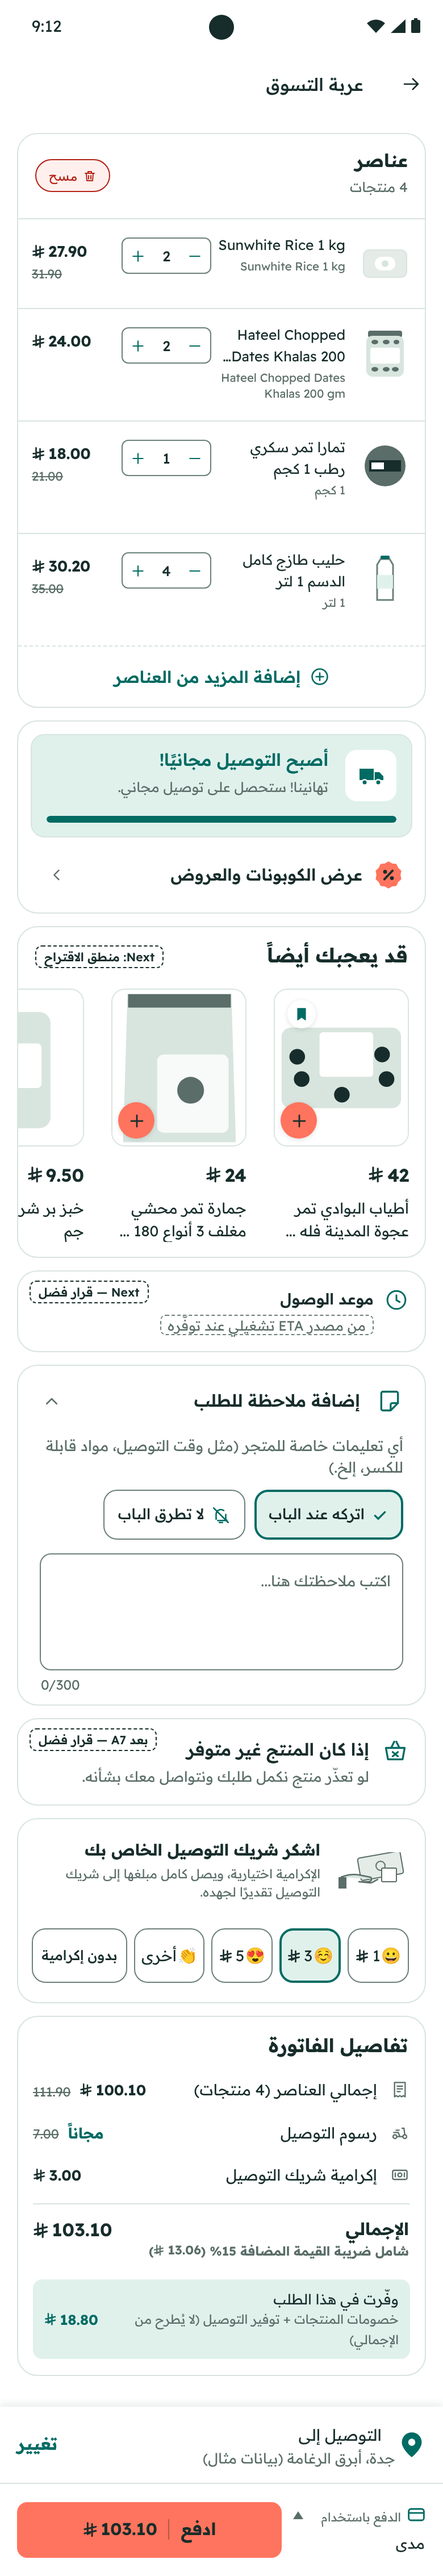
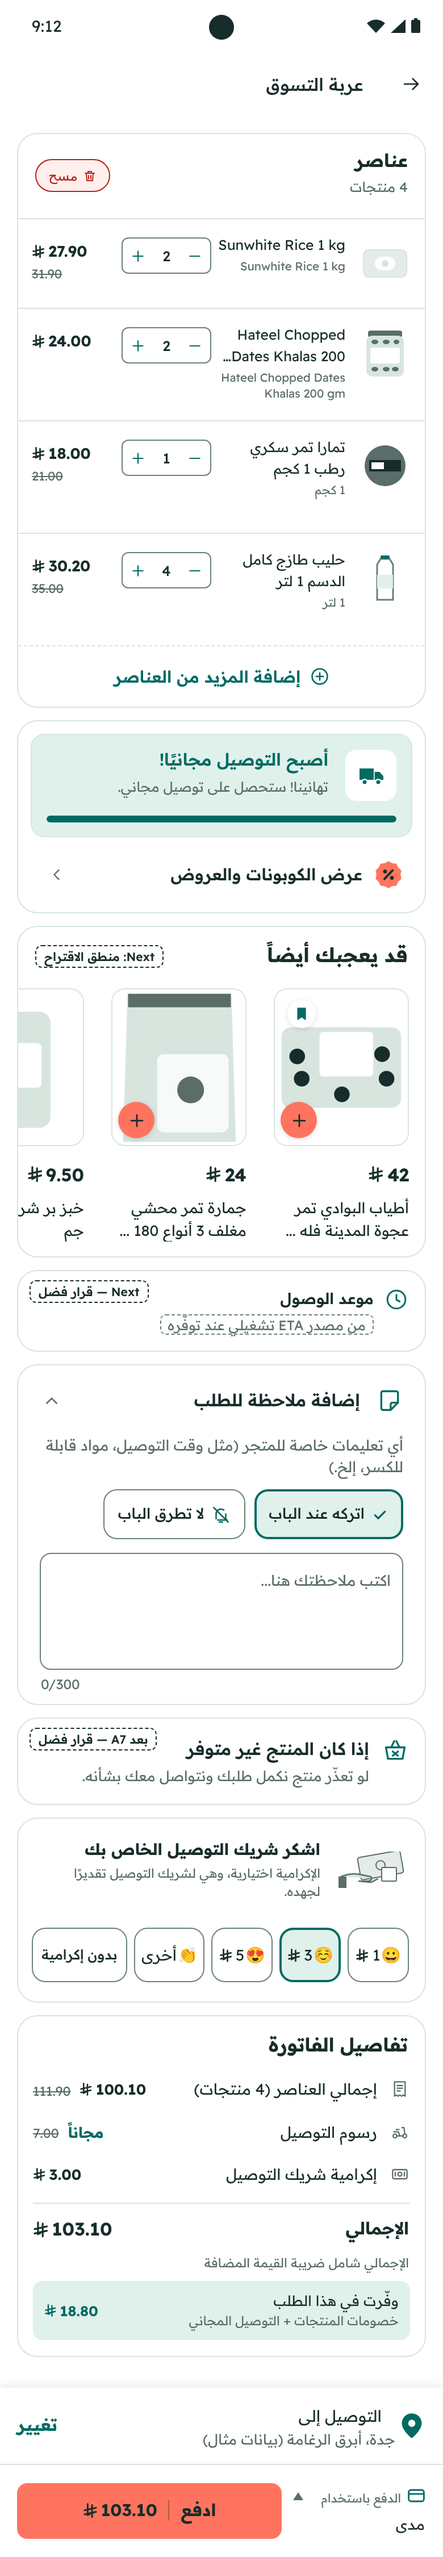
Checkout journey: final round (VAT shown as inclusive note only, edge-state fixes)
Claude-Session: https://claude.ai/code/session_01Qb8xUvC7Auf1qNT2o2kfnj

diff --git a/design/outputs/checkout-journey/07-edge-states.html b/design/outputs/checkout-journey/07-edge-states.html
@@ -28,7 +28,7 @@
 
 <!-- 1 recalculation -->
 <section class="edge-sec" id="e1"><h4><span>1</span>إعادة حساب المبلغ (بعد تغيير كمية أو إكرامية)</h4>
-  <section class="card inv"><div class="irow total"><span class="l">الإجمالي<small>شامل ضريبة القيمة المضافة 15%</small></span><span class="a"><span class="skel"></span></span></div></section>
+  <section class="card inv"><div class="irow total"><span class="l">الإجمالي</span><span class="a"><span class="skel"></span></span></div><p class="vat-note">الإجمالي شامل ضريبة القيمة المضافة</p></section>
   <div class="frag-footer"><div class="actionbar review">
     <button class="btn-primary" type="button" disabled><span class="spin"></span>ادفع</button>
     <div class="pay"><svg class="cash" viewBox="0 0 15 17" style="color:var(--jarna-link)"><rect x="0.8" y="3" width="13.4" height="10" rx="2" fill="none" stroke="currentColor" stroke-width="1.4"/><path d="M0.8 6.5h13.4" stroke="currentColor" stroke-width="1.4"/></svg><span class="lbl">الدفع باستخدام</span><svg class="caret" viewBox="0 0 9 7"><path d="M0 7L4.5 0 9 7z"/></svg><span class="val" style="direction:rtl">مدى</span></div>
@@ -37,7 +37,7 @@
 
 <!-- 2 confirming payment -->
 <section class="edge-sec" id="e2"><h4><span>2</span>جارٍ تأكيد الدفع (بين نجاح تاب ووصول التأكيد للخادم)</h4>
-  <div class="center-state"><div class="ring"></div><h3>جارٍ تأكيد الدفع</h3><p>لا تغلق التطبيق حتى يكتمل التأكيد.</p></div>
+  <div class="center-state"><div class="ring"></div><h3>جارٍ تأكيد الدفع</h3><p>نؤكد الدفع مع البنك.</p></div>
 </section>
 
 <!-- 3 paid, order not created -->
@@ -54,7 +54,7 @@
     <button class="btn-primary" type="button">إتمام الطلب<span class="sep"></span><span class="amt"><svg class="sar"><use href="#sar"/></svg>103.10</span></button>
     <div class="pay"><svg class="cash" viewBox="0 0 15 17" style="color:var(--jarna-link)"><rect x="0.8" y="4" width="13.4" height="9" rx="1.5" fill="none" stroke="currentColor" stroke-width="1.4"/><circle cx="7.5" cy="8.5" r="2" fill="none" stroke="currentColor" stroke-width="1.3"/></svg><span class="lbl">الدفع باستخدام</span><svg class="caret" viewBox="0 0 9 7"><path d="M0 7L4.5 0 9 7z"/></svg><span class="val" style="direction:rtl">الدفع عند الاستلام</span></div>
   </div></div>
-  <div class="succ" style="height:64px"><div class="meta" style="top:10px"><div><span>المبلغ عند الاستلام</span><span class="num"><svg class="sar"><use href="#sar"/></svg>103.10</span></div></div></div>
+  <div class="succ" style="height:72px"><div class="meta tagged" style="top:18px"><span class="mock-tag" style="top:-11px">Next — قرار فضل</span><div><span>المبلغ عند الاستلام</span><span class="num"><svg class="sar"><use href="#sar"/></svg>103.10</span></div></div></div>
 </section>
 
 <!-- 5 saved card -->
@@ -63,16 +63,19 @@
 </section>
 
 <!-- 6 below free-delivery threshold -->
-<section class="edge-sec" id="e6"><h4><span>6</span>الهبوط تحت حد التوصيل المجاني في المراجعة (حذف منتج)</h4>
+<section class="edge-sec" id="e6"><h4><span>6</span>الهبوط تحت حد التوصيل المجاني (سلة 04 بعد حذف الحليب وتمارا وخفض الرز إلى 1)</h4>
   <section class="card fd-card" style="height:102px;padding-bottom:0">
     <div class="fd"><div class="truck"><svg><use href="#i-truck"/></svg></div>
-      <h3>احصل على توصيل مجاني</h3><p>أضف منتجات بقيمة <span class="num"><svg class="sar"><use href="#sar"/></svg>4.10</span> إضافية</p>
-      <div class="bar"><i style="width:91.8%"></i></div></div>
+      <h3>احصل على توصيل مجاني</h3><p>أضف منتجات بقيمة <span class="num"><svg class="sar"><use href="#sar"/></svg>12.05</span> إضافية</p>
+      <div class="bar"><i style="width:75.9%"></i></div></div>
   </section>
   <section class="card inv">
-    <div class="irow"><svg class="ic ric"><use href="#i-receipt"/></svg><span class="l">إجمالي العناصر (3 منتجات)</span><span class="a"><span class="num"><svg class="sar"><use href="#sar"/></svg>45.90</span></span></div>
-    <div class="irow"><svg class="ic ric"><use href="#i-scooter"/></svg><span class="l">رسوم التوصيل</span><span class="a"><span class="num"><svg class="sar"><use href="#sar"/></svg>7.00</span></span></div>
-    <div class="irow total"><span class="l">الإجمالي<small>شامل ضريبة القيمة المضافة 15% (<span class="num"><svg class="sar"><use href="#sar"/></svg>6.90</span>)</small></span><span class="a"><span class="num"><svg class="sar"><use href="#sar"/></svg>52.90</span></span></div>
+    <div class="irow"><svg class="ic ric"><use href="#i-receipt"/></svg><span class="l">إجمالي العناصر (2 منتجات)</span><span class="a"><span class="was">39.95</span><span class="num"><svg class="sar"><use href="#sar"/></svg>37.95</span></span></div>
+    <div class="irow"><svg class="ic ric"><use href="#i-scooter"/></svg><span class="l">رسوم التوصيل<small class="pos">أضف منتجات بقيمة <span class="num"><svg class="sar"><use href="#sar"/></svg>12.05</span> للحصول على توصيل مجاني</small></span><span class="a"><span class="num"><svg class="sar"><use href="#sar"/></svg>7.00</span></span></div>
+    <div class="irow"><svg class="ic ric"><use href="#i-cash"/></svg><span class="l">إكرامية شريك التوصيل</span><span class="a"><span class="num"><svg class="sar"><use href="#sar"/></svg>3.00</span></span></div>
+    <div class="irow total"><span class="l">الإجمالي</span><span class="a"><span class="num"><svg class="sar"><use href="#sar"/></svg>47.95</span></span></div>
+    <p class="vat-note">الإجمالي شامل ضريبة القيمة المضافة</p>
+    <div class="saved-under"><span>وفّرت في هذا الطلب<small>خصومات المنتجات</small></span><b class="num"><svg class="sar"><use href="#sar"/></svg>2.00</b></div>
   </section>
 </section>
 
@@ -100,12 +103,12 @@
 </div>
 <script>
 window.ANN = [
- {n:1, sel:'#e1', what:'<b>إعادة الحساب</b>: بعد أي تغيير (كمية، أو إكرامية، أو حذف) يتعطّل الزر بلا مبلغ ومعه مؤشر، ويظهر مكان الإجمالي شريط تحميل، حتى يعيد الخادم <code>total</code>. لا يُعرض رقم قديم ولا رقم محسوب في التطبيق.', owner:'Flutter + Backend', cls:'now', src:'استجابة حساب السلة (<code>total</code> و<code>vat_amount</code>)'},
- {n:2, sel:'#e2', what:'<b>"جارٍ تأكيد الدفع"</b>: بعد نجاح تاب وقبل وصول الـ Webhook للخادم. لا رجوع ولا زر. بعد التأكيد تظهر 06.', owner:'Backend + Flutter', cls:'now', src:'Tap Webhook (CAPTURED) قبل إنشاء الطلب، ومهلة انتظار يحددها محمد'},
- {n:3, sel:'#e3', kind:'issue', what:'<b>دُفع المبلغ ولم يُنشأ الطلب</b>: تحذير كهرماني (<code>#805500</code> على <code>#FFF4D6</code>) وزر دعم. لا وعد بموعد استرداد. القرار التشغيلي (استرداد تلقائي أو إنشاء يدوي) لفضل.', owner:'Backend + تشغيل', cls:'dec', clsText:'MVP Now — الإجراء قرار فضل', src:'مطابقة يومية بين Charges تاب والطلبات (Reconciliation)'},
- {n:4, sel:'#e4', what:'<b>الدفع عند الاستلام مختاراً</b>: الزر "إتمام الطلب | 103.10"، و"اتركه عند الباب" معطّل، وبطاقة المنتج غير المتوفر مخفية، وفي النجاح "المبلغ عند الاستلام".', owner:'Flutter', cls:'now', src:'<code>payment_method = cod</code>'},
+ {n:1, sel:'#e1', what:'<b>إعادة الحساب</b>: بعد أي تغيير (كمية، أو إكرامية، أو حذف) يتعطّل الزر بلا مبلغ ومعه مؤشر، ويظهر مكان الإجمالي شريط تحميل، وتبقى ملاحظة "شامل ضريبة القيمة المضافة" بلا مبلغ، حتى يعيد الخادم <code>total</code>. لا يُعرض رقم قديم ولا رقم محسوب في التطبيق.', owner:'Flutter + Backend', cls:'now', src:'استجابة حساب السلة (<code>total</code> و<code>vat_amount</code>)'},
+ {n:2, sel:'#e2', what:'<b>"جارٍ تأكيد الدفع"</b>: "نؤكد الدفع مع البنك." بعد نجاح تاب وقبل وصول الـ Webhook. لا رجوع ولا زر. بعد التأكيد ← 06. <b>بعد المهلة (X ثانية، يحددها محمد) ← 07-3</b>، ويستمر الخادم في المطابقة. <b>عند فتح التطبيق من جديد</b>: إن وُجد Charge ناجح بلا طلب ← 07-3.', owner:'Backend + Flutter', cls:'now', src:'Tap Webhook (CAPTURED)، ومهلة الانتظار، وفحص عند الإقلاع: Charge ناجح بلا <code>order_id</code>'},
+ {n:3, sel:'#e3', kind:'issue', what:'<b>دُفع المبلغ ولم يُنشأ الطلب</b> (يُدخل إليه من 07-2 بعد المهلة، أو عند فتح التطبيق من جديد). عبارة "نتواصل معك" تُربط بقرار الإجراء: تحذير كهرماني (<code>#805500</code> على <code>#FFF4D6</code>) وزر دعم. لا وعد بموعد استرداد. القرار التشغيلي (استرداد تلقائي أو إنشاء يدوي) لفضل.', owner:'Backend + تشغيل', cls:'dec', clsText:'MVP Now — الإجراء قرار فضل', src:'مطابقة يومية بين Charges تاب والطلبات (Reconciliation)'},
+ {n:4, sel:'#e4', what:'<b>الدفع عند الاستلام مختاراً</b>: الزر "إتمام الطلب | 103.10"، و"اتركه عند الباب" معطّل، وبطاقة المنتج غير المتوفر مخفية، وفي النجاح "المبلغ عند الاستلام" (صندوق موسوم Next كما في 06).', owner:'Flutter', cls:'now', src:'<code>payment_method = cod</code>'},
  {n:5, sel:'#e5', what:'<b>البطاقة المحفوظة</b>: صف أول في "خيارات الدفع" بآخر 4 أرقام، يدفع دون إدخال البطاقة مرة ثانية (قد يطلب البنك رمز تحقق).', owner:'Backend + Flutter', cls:'now', src:'بطاقات العميل المحفوظة في تاب (<code>customer_id</code>)'},
- {n:6, sel:'#e6', what:'<b>الهبوط تحت الحد في المراجعة</b>: لوحة v65 تعود إلى "أضف منتجات بقيمة X"، ويعود التوصيل 7.00 بلا شطب، ويتحدّث الإجمالي والزر بعد إعادة الحساب (1). 45.90 + 7.00 = 52.90، والضريبة 6.90.', owner:'Flutter', cls:'now', src:'<code>free_delivery_amount</code> والمجموع بعد الخصم'},
+ {n:6, sel:'#e6', what:'<b>الهبوط تحت الحد</b>: سلة 04 بعد حذف الحليب وتمارا وخفض الرز إلى 1. المجموع 13.95 + 24.00 = 37.95 (الأصلي 39.95)، والمتبقي 12.05، والشريط 75.9%. التوصيل يعود 7.00 بلا شطب، والإكرامية 3.00 باقية، فالإجمالي 47.95. "وفّرت" 2.00 من الخصومات فقط، ولا يُذكر التوصيل لأنه غير مجاني.', owner:'Flutter', cls:'now', src:'<code>free_delivery_amount</code> والمجموع بعد الخصم'},
  {n:7, sel:'#e7', what:'<b>عنوان خارج النطاق</b> (بعد تصغير المنطقة، A1): رسالة حمراء تحت العنوان، والزر "اختر عنواناً آخر" يفتح منتقي العنوان من v65. لا دفع قبل عنوان داخل النطاق.', owner:'Backend + Flutter', cls:'now', src:'فحص العنوان مقابل Delivery Zone (Jeddah)'},
  {n:8, sel:'#e8', what:'<b>أندرويد</b>: لا صف Apple Pay. Google Pay خارج النطاق الآن.', owner:'Flutter', cls:'now', src:'المنصة'},
  {n:9, sel:'#e9', what:'<b>فشل الدفع</b>: رسالة حمراء "لم يكتمل الدفع. جرّب مرة ثانية أو اختر طريقة أخرى." بلا ذكر للخصم. لا يُنشأ الطلب.', owner:'Backend + Flutter', cls:'now', src:'رد تاب FAILED / DECLINED'}

diff --git a/design/outputs/checkout-journey/04-review.html b/design/outputs/checkout-journey/04-review.html
@@ -87,7 +87,7 @@
 <section class="card tips" id="tips">
   <svg class="art" viewBox="0 0 58 32"><rect x="18" y="2" width="38" height="20" rx="2" transform="rotate(-10 37 12)" fill="var(--jarna-grey-disabled)" stroke="var(--jarna-secondary)" stroke-width="1"/><circle cx="37" cy="12" r="4" fill="none" stroke="var(--jarna-secondary)"/><rect x="38" y="14" width="13" height="12" rx="1" fill="var(--jarna-white)" stroke="var(--jarna-secondary)"/><path d="M2 22c6-2 10-3 16-2l10 2c2 1 1 4-2 4h-8l10 1c3 0 5-3 7-3" fill="var(--jarna-border-subtle)" stroke="var(--jarna-secondary)" stroke-width="1.3" stroke-linejoin="round"/><rect x="0" y="22" width="7" height="10" fill="var(--jarna-secondary)"/></svg>
   <h3>اشكر شريك التوصيل الخاص بك</h3>
-  <p>الإكرامية اختيارية، ويصل كامل مبلغها إلى شريك التوصيل تقديرًا لجهده.</p>
+  <p>الإكرامية اختيارية، وهي لشريك التوصيل تقديرًا لجهده.</p>
   <div class="chips"><span class="chip" style="width:54px"><span class="e">😀</span><span class="num"><svg class="sar"><use href="#sar"/></svg>1</span></span><span class="chip sel" style="width:54px"><span class="e">☺</span><span class="num"><svg class="sar"><use href="#sar"/></svg>3</span></span><span class="chip" style="width:54px"><span class="e">😍</span><span class="num"><svg class="sar"><use href="#sar"/></svg>5</span></span><span class="chip" style="width:62px"><span class="e">👏</span><span>أخرى</span></span><span class="chip none" style="width:84px">بدون إكرامية</span></div>
 </section>
 <section class="card inv" id="invoice">
@@ -95,8 +95,9 @@
   <div class="irow" id="r-sub"><svg class="ic ric"><use href="#i-receipt"/></svg><span class="l">إجمالي العناصر (4 منتجات)</span><span class="a"><span class="was">111.90</span><span class="num"><svg class="sar"><use href="#sar"/></svg>100.10</span></span></div>
   <div class="irow" id="r-del"><svg class="ic ric"><use href="#i-scooter"/></svg><span class="l">رسوم التوصيل</span><span class="a"><span class="was">7.00</span><span class="free">مجاناً</span></span></div>
   <div class="irow" id="r-tip"><svg class="ic ric"><use href="#i-cash"/></svg><span class="l">إكرامية شريك التوصيل</span><span class="a"><span class="num"><svg class="sar"><use href="#sar"/></svg>3.00</span></span></div>
-  <div class="irow total" id="r-total"><span class="l">الإجمالي<small>شامل ضريبة القيمة المضافة 15% (<span class="num"><svg class="sar"><use href="#sar"/></svg>13.06</span>)</small></span><span class="a"><span class="num"><svg class="sar"><use href="#sar"/></svg>103.10</span></span></div>
-  <div class="saved-under" id="saved"><span>وفّرت في هذا الطلب<small>خصومات المنتجات + توفير التوصيل (لا يُطرح من الإجمالي)</small></span><b class="num"><svg class="sar"><use href="#sar"/></svg>18.80</b></div>
+  <div class="irow total" id="r-total"><span class="l">الإجمالي</span><span class="a"><span class="num"><svg class="sar"><use href="#sar"/></svg>103.10</span></span></div>
+  <p class="vat-note">الإجمالي شامل ضريبة القيمة المضافة</p>
+  <div class="saved-under" id="saved"><span>وفّرت في هذا الطلب<small>خصومات المنتجات + التوصيل المجاني</small></span><b class="num"><svg class="sar"><use href="#sar"/></svg>18.80</b></div>
 </section>
 </main>
 <footer class="footer">
@@ -113,10 +114,10 @@ window.ANN = [
  {n:2, sel:'#note', kind:'v65', what:'بطاقة "إضافة ملاحظة للطلب" من v65 كما هي (مفتوحة): العنوان، والسهم، والنص التوضيحي، والحقل، والعدّاد 0/300.', owner:'Flutter', cls:'now', src:'<code>order_note</code>'},
  {n:3, sel:'#ichips', what:'<b>زرا تعليمات التوصيل</b> داخل بطاقة v65، فوق الحقل: "اتركه عند الباب" و"لا تطرق الباب"، باختيار متعدد. الحقل نفسه هو "ملاحظة". مع الدفع عند الاستلام يُعطَّل "اتركه عند الباب". دمج البطاقة في "تعليمات التوصيل" خيار منفصل (Next، J8).', owner:'Flutter + Backend', cls:'now', src:'B6: <code>delivery_instructions[]</code>، ويظهر في تطبيق المندوب. <b>افتراض</b>: إن لم يوجد الحقل تُكتب في بداية <code>order_note</code>'},
  {n:4, sel:'#oos', kind:'issue', what:'<b>"إذا كان المنتج غير متوفر"</b>: "لو تعذّر منتج نكمل طلبك ونتواصل معك بشأنه." بلا وعد استرداد. موسومة <b>بعد A7</b>، وتُخفى عند الدفع عند الاستلام (J13).', owner:'Flutter + محتوى', cls:'dec', clsText:'بعد A7 — قرار فضل', src:'سياسة A7. الإجراء التشغيلي عند النقص يحدده فضل'},
- {n:5, sel:'#tips', what:'<b>الإكرامية 1 / 3 / 5 / أخرى، وبدون إكرامية</b>، بشكل شرائح v65. بلا اختيار مسبق. لا تُحسب في حد التوصيل المجاني.', owner:'إعداد اللوحة + Flutter', cls:'now', src:'A3: Settings › Delivery Boy (الحد الأدنى 1، والخيارات 1/3/5)'},
+ {n:5, sel:'#tips', what:'<b>الإكرامية 1 / 3 / 5 / أخرى، وبدون إكرامية</b>، بشكل شرائح v65. السطر التوضيحي صار "وهي لشريك التوصيل" بدل "يصل كامل مبلغها" حتى يقرر فضل. بلا اختيار مسبق. لا تُحسب في حد التوصيل المجاني.', owner:'إعداد اللوحة + Flutter', cls:'now', src:'A3: Settings › Delivery Boy (الحد الأدنى 1، والخيارات 1/3/5)'},
  {n:6, sel:'#r-del', what:'<b>التوصيل مشطوباً وبجانبه "مجاناً"</b> عند تجاوز الحد.', owner:'Flutter', cls:'now', src:'<code>delivery_charge</code> و<code>free_delivery_amount</code>'},
  {n:7, sel:'#r-tip', what:'<b>سطر الإكرامية في الفاتورة</b>: جديد في النموذج. لم يُتحقق هل تعرضه الحزمة الآن.', owner:'Backend + Flutter', cls:'now', src:'<code>tip_amount</code> (غير متحقق من اسمه)'},
- {n:8, sel:'#r-total', what:'<b>الإجمالي "شامل ضريبة القيمة المضافة 15%" بمبلغها، وبلا تقريب.</b> الإجمالي = المجموع + التوصيل + الإكرامية.', owner:'Backend (محمد)', cls:'now', src:'B2 وB3: <code>vat_amount</code> = 100.10 × 15/115 = 13.06، والإكرامية خارج الوعاء (افتراض J12)'},
+ {n:8, sel:'#r-total', what:'<b>الإجمالي بلا تقريب</b>، وتحته "الإجمالي شامل ضريبة القيمة المضافة" بلا مبلغ (قرار فضل 2026-10-22). الإجمالي = المجموع + التوصيل + الإكرامية.', owner:'Backend (محمد)', cls:'now', src:'B3: <code>total</code>. مبلغ الضريبة (100.10 × 15/115 = 13.06 إن كانت الإكرامية خارج الوعاء، J12) والرقم الضريبي وQR في الفاتورة فقط (B2)'},
  {n:9, sel:'#saved', what:'<b>"وفّرت في هذا الطلب 18.80"</b> تحت الإجمالي. التعريف الواحد = خصومات المنتجات 11.80 + توفير التوصيل 7.00. لا يظهر رقم توفير آخر في الصفحة (J16).', owner:'Backend + Flutter', cls:'now', src:'<code>original_subtotal − subtotal</code> + <code>delivery_charge</code>'},
  {n:10, sel:'#paywith', kind:'v65', what:'"الدفع باستخدام ▲" في موضعه من v65، والقيمة "مدى". الضغط يفتح "خيارات الدفع" (03).', owner:'Flutter', cls:'now', src:'الطريقة المختارة'},
  {n:11, sel:'#cta', what:'<b>"ادفع | 103.10"</b> بدل "إتمام الطلب" عند الدفع الإلكتروني، بالعرض والموضع نفسيهما. عند الدفع عند الاستلام: "إتمام الطلب | 103.10" (لوحة 07).', owner:'Flutter', cls:'now', src:'<code>total</code>'}

diff --git a/design/outputs/checkout-journey/02-cart.html b/design/outputs/checkout-journey/02-cart.html
@@ -62,15 +62,16 @@
 <section class="card tips">
   <svg class="art" viewBox="0 0 58 32"><rect x="18" y="2" width="38" height="20" rx="2" transform="rotate(-10 37 12)" fill="var(--jarna-grey-disabled)" stroke="var(--jarna-secondary)" stroke-width="1"/><circle cx="37" cy="12" r="4" fill="none" stroke="var(--jarna-secondary)"/><rect x="38" y="14" width="13" height="12" rx="1" fill="var(--jarna-white)" stroke="var(--jarna-secondary)"/><path d="M2 22c6-2 10-3 16-2l10 2c2 1 1 4-2 4h-8l10 1c3 0 5-3 7-3" fill="var(--jarna-border-subtle)" stroke="var(--jarna-secondary)" stroke-width="1.3" stroke-linejoin="round"/><rect x="0" y="22" width="7" height="10" fill="var(--jarna-secondary)"/></svg>
   <h3>اشكر شريك التوصيل الخاص بك</h3>
-  <p>الإكرامية اختيارية، ويصل كامل مبلغها إلى شريك التوصيل تقديرًا لجهده.</p>
+  <p>الإكرامية اختيارية، وهي لشريك التوصيل تقديرًا لجهده.</p>
   <div class="chips"><span class="chip" style="width:54px"><span class="e">😀</span><span class="num"><svg class="sar"><use href="#sar"/></svg>1</span></span><span class="chip" style="width:54px"><span class="e">☺</span><span class="num"><svg class="sar"><use href="#sar"/></svg>3</span></span><span class="chip" style="width:54px"><span class="e">😍</span><span class="num"><svg class="sar"><use href="#sar"/></svg>5</span></span><span class="chip" style="width:62px"><span class="e">👏</span><span>أخرى</span></span><span class="chip none" style="width:84px">بدون إكرامية</span></div>
 </section>
 <section class="card inv" id="invoice">
   <h3>تفاصيل الفاتورة</h3>
   <div class="irow"><svg class="ic ric"><use href="#i-receipt"/></svg><span class="l">إجمالي العناصر (2 منتجات)</span><span class="a"><span class="was">43.90</span><span class="num"><svg class="sar"><use href="#sar"/></svg>39.90</span></span></div>
   <div class="irow"><svg class="ic ric"><use href="#i-scooter"/></svg><span class="l">رسوم التوصيل<small class="pos">أضف منتجات بقيمة <span class="num"><svg class="sar"><use href="#sar"/></svg>10.10</span> للحصول على توصيل مجاني</small></span><span class="a"><span class="num"><svg class="sar"><use href="#sar"/></svg>7.00</span></span></div>
-  <div class="irow total"><span class="l">الإجمالي<small>شامل ضريبة القيمة المضافة 15% (<span class="num"><svg class="sar"><use href="#sar"/></svg>6.12</span>)</small></span><span class="a"><span class="num"><svg class="sar"><use href="#sar"/></svg>46.90</span></span></div>
-  <div class="saved-under" id="saved"><span>وفّرت في هذا الطلب<small>خصومات المنتجات + توفير التوصيل (لا يُطرح من الإجمالي)</small></span><b class="num"><svg class="sar"><use href="#sar"/></svg>4.00</b></div>
+  <div class="irow total"><span class="l">الإجمالي</span><span class="a"><span class="num"><svg class="sar"><use href="#sar"/></svg>46.90</span></span></div>
+  <p class="vat-note">الإجمالي شامل ضريبة القيمة المضافة</p>
+  <div class="saved-under" id="saved"><span>وفّرت في هذا الطلب<small>خصومات المنتجات</small></span><b class="num"><svg class="sar"><use href="#sar"/></svg>4.00</b></div>
 </section>
 </main>
 <footer class="footer">
@@ -85,8 +86,8 @@ window.ANN = [
  {n:3, sel:'#recs', kind:'v65', what:'<b>"قد يعجبك أيضاً" موجود في v65.</b> لا تغيير الآن. لاحقاً: استبعاد ما في السلة، وإظهار المخفّض، و"اشترِ مجدداً".', owner:'Backend', cls:'next', src:'منطق الاقتراح الحالي (غير متحقق)'},
  {n:4, sel:'#note', kind:'v65', what:'بطاقة "إضافة ملاحظة للطلب" من v65 كما هي (مطويّة). عند فتحها تظهر أزرار تعليمات التوصيل داخلها (لوحة 04).', owner:'Flutter', cls:'now', src:'<code>order_note</code>'},
  {n:5, sel:'#oos', kind:'issue', what:'<b>"إذا كان المنتج غير متوفر"</b>: "لو تعذّر منتج نكمل طلبك ونتواصل معك بشأنه." بلا وعد استرداد. موسومة <b>بعد A7</b>، وتُخفى عند الدفع عند الاستلام (J13).', owner:'Flutter + محتوى', cls:'dec', clsText:'بعد A7 — قرار فضل', src:'سياسة A7 في صفحة السياسات'},
- {n:6, sel:'#invoice', what:'<b>الفاتورة</b>: المجموع مع الأصلي مشطوباً، والتوصيل، ثم <b>الإجمالي "شامل ضريبة القيمة المضافة 15%"</b> بمبلغها. الإجمالي = المجموع + التوصيل + الإكرامية فقط. لا لقطة لسطر الإجمالي في v65.', owner:'Backend + Flutter', cls:'now', src:'B2: <code>subtotal</code> و<code>original_subtotal</code> و<code>delivery_fee</code> و<code>vat_amount</code> و<code>total</code>'},
- {n:7, sel:'#saved', what:'<b>"وفّرت في هذا الطلب"</b> تحت الإجمالي، لا بين البنود المجموعة. تعريف واحد في كل الشاشات = (الأصلي − المخفّض للمنتجات) + توفير التوصيل. هنا 4.00 + 0 = 4.00 (J16).', owner:'Backend + Flutter', cls:'now', src:'<code>original_subtotal − subtotal</code> + <code>delivery_charge</code> عند التوصيل المجاني'},
+ {n:6, sel:'#invoice', what:'<b>الفاتورة</b>: المجموع مع الأصلي مشطوباً، والتوصيل، ثم <b>الإجمالي</b>، وتحته ملاحظة ثانوية "الإجمالي شامل ضريبة القيمة المضافة" <b>بلا مبلغ الضريبة</b> (قرار فضل 2026-10-22). الإجمالي = المجموع + التوصيل + الإكرامية فقط. مبلغ الضريبة والرقم الضريبي وQR في الفاتورة فقط. لا لقطة لسطر الإجمالي في v65.', owner:'Backend + Flutter', cls:'now', src:'B2: <code>subtotal</code> و<code>original_subtotal</code> و<code>delivery_fee</code> و<code>total</code>. <code>vat_amount</code> للفاتورة فقط'},
+ {n:7, sel:'#saved', what:'<b>"وفّرت في هذا الطلب"</b> تحت الإجمالي، لا بين البنود المجموعة. تعريف واحد في كل الشاشات = (الأصلي − المخفّض للمنتجات) + توفير التوصيل. السطر الفرعي يذكر التوصيل فقط حين يكون مجانياً. هنا 4.00 من الخصومات (J16).', owner:'Backend + Flutter', cls:'now', src:'<code>original_subtotal − subtotal</code> + <code>delivery_charge</code> عند التوصيل المجاني'},
  {n:8, sel:'#cta', what:'<b>المبلغ داخل الزر</b>: "اختر طريقة الدفع | 46.90". النص من v65، والمبلغ هو الإجمالي حرفياً. أثناء إعادة الحساب يتعطّل الزر بلا مبلغ (لوحة 07).', owner:'Flutter', cls:'now', src:'<code>total</code> من الخادم'}
 ];
 window.ANN_FOOT = 'الأرقام مثال: رز 2 × 13.95 (الأصلي 15.95)، وتمر 1 × 12.00. الإكرامية بلا اختيار هنا، وتُشرح في 04.';

diff --git a/design/outputs/checkout-journey/05-pay-sheet.html b/design/outputs/checkout-journey/05-pay-sheet.html
@@ -22,7 +22,7 @@
 <main class="content">
 <section class="card inv">
   <h3>تفاصيل الفاتورة</h3>
-  <div class="irow"><svg class="ic ric"><use href="#i-receipt"/></svg><span class="l">إجمالي العناصر (4 منتجات)</span><span class="a"><span class="num"><svg class="sar"><use href="#sar"/></svg>100.10</span></span></div>
+  <div class="irow"><svg class="ic ric"><use href="#i-receipt"/></svg><span class="l">إجمالي العناصر (4 منتجات)</span><span class="a"><span class="was">111.90</span><span class="num"><svg class="sar"><use href="#sar"/></svg>100.10</span></span></div>
   <div class="irow"><svg class="ic ric"><use href="#i-scooter"/></svg><span class="l">رسوم التوصيل</span><span class="a"><span class="was">7.00</span><span class="free">مجاناً</span></span></div>
   <div class="irow"><svg class="ic ric"><use href="#i-cash"/></svg><span class="l">إكرامية شريك التوصيل</span><span class="a"><span class="num"><svg class="sar"><use href="#sar"/></svg>3.00</span></span></div>
 </section>
@@ -35,7 +35,7 @@
 <div class="psheet" id="sheet">
   <div class="handle"></div>
   <div class="top"><h2>الدفع ببطاقة مدى</h2><svg class="ic close"><use href="#i-close"/></svg></div>
-  <div class="psum" id="sum"><span class="l">المبلغ<small>شامل ضريبة القيمة المضافة</small></span><span class="v"><span class="num"><svg class="sar"><use href="#sar"/></svg>103.10</span></span></div>
+  <div class="psum" id="sum"><span class="l">المبلغ<small>الإجمالي شامل ضريبة القيمة المضافة</small></span><span class="v"><span class="num"><svg class="sar"><use href="#sar"/></svg>103.10</span></span></div>
   <div id="fields">
     <div class="fld"><label>رقم البطاقة</label><div class="box focus"><span>4321 •••• •••• 5884</span><svg class="ic"><use href="#i-card"/></svg></div></div>
     <div class="fld2">

diff --git a/design/outputs/checkout-journey/journey.css b/design/outputs/checkout-journey/journey.css
@@ -67,6 +67,7 @@
 .irow .a .was{font-size:11.5px;margin-right:8px}
 .irow .a .free{font-weight:700;color:var(--jarna-link)}
 /* J16: "وفّرت" sits UNDER the total, outside the summed rows: one definition = product discounts + delivery saved */
+.vat-note{margin:2px 1px 0 0;font-size:11px;line-height:16px;color:var(--jarna-text-secondary)}
 .saved-under{display:flex;justify-content:space-between;align-items:center;margin-top:8px;padding:8px 10px;border-radius:8px;background:var(--jarna-supportive-panel);font-size:12.5px;line-height:18px;color:var(--jarna-text)}
 .saved-under b{color:var(--jarna-link);font-weight:700;direction:ltr}
 .saved-under small{display:block;font-size:11px;color:var(--jarna-text-secondary)}

diff --git a/design/outputs/checkout-journey/HANDOFF-checkout.md b/design/outputs/checkout-journey/HANDOFF-checkout.md
@@ -1,10 +1,11 @@
 # تسليم: رحلة العميل بعد إضافة منتج للسلة
 
-- **التاريخ:** 2026-10-22. هذه الجولة الثانية، بعد `CRITIQUE-checkout.md`.
+- **التاريخ:** 2026-10-22. هذه الجولة الثالثة، بعد `CRITIQUE-checkout.md` و`CRITIQUE-checkout-r2.md`، وبعد قرار فضل في عرض الضريبة (J17).
 - **المصمم:** ui-designer.
 - **الحالة:** نموذج للمراجعة.
-  - أُصلحت بنود النقد الإلزامية الأحد عشر، وطُبّق الحسم المؤقت للمنسّق في J1 وJ8 وJ13 إلى J16.
-  - لم يُعَد تشغيل `design-critic` بعد هذه الجولة.
+  - أُغلقت بنود الجولة الأولى الأحد عشر، وبندا الجولة الثانية R2-1 وR2-2، والمستحسنات الخمسة الأولى منها.
+  - طُبّق الحسم المؤقت للمنسّق في J1 وJ8 وJ13 إلى J16 وJ18، وقرار فضل J17.
+  - يكفي بعد هذه الجولة مراجعة نقطية من `design-critic` للقطتي 07-2 و07-6.
   - لا يُكلَّف عبيد ومحمد قبل اعتماد فضل.
 - **المرجع:**
   - طلب فضل في المحادثة (2026-10-22).
@@ -92,7 +93,7 @@ NODE_PATH=$(npm root -g) node design/outputs/checkout-journey/render.cjs
 ### افتراض (لم يُتحقق)
 - **سطر الإجمالي في التطبيق الحالي:** لا لقطة له.
 - **حقول الخادم:** `delivery_instructions` و`vat_amount` و`original_subtotal` و`tip_amount`.
-- **الإكرامية والضريبة:** الإكرامية خارج وعاء الضريبة (J12)، وإن دخلته تصير الضريبة 13.45 بدل 13.06.
+- **الإكرامية والضريبة:** الإكرامية خارج وعاء الضريبة (J12). هذا يخص مبلغ الضريبة في الفاتورة فقط، فالتطبيق لا يعرضه (J17).
 - **مدى أولاً:** لأنها الأشيع.
 - **بعد النجاح ينتقل التطبيق إلى التتبع.**
 - **الأسعار الأصلية في الأمثلة:** أرقام مثال.
@@ -125,8 +126,8 @@ NODE_PATH=$(npm root -g) node design/outputs/checkout-journey/render.cjs
 | 02-3 | "قد يعجبك أيضاً" (v65): منطق أفضل | B | Next | منطق الاقتراح |
 | 02-4 | بطاقة "إضافة ملاحظة للطلب" (v65) كما هي | F | MVP Now | `order_note` |
 | 02-5 | "إذا كان المنتج غير متوفر" (J13) | F + محتوى | **بعد A7 — قرار فضل** | سياسة A7 |
-| 02-6 | الفاتورة والإجمالي "شامل ضريبة القيمة المضافة 15%" بمبلغها. **الإجمالي = المجموع + التوصيل + الإكرامية فقط** | B + F | MVP Now | B2 |
-| 02-7 | "وفّرت في هذا الطلب" **تحت الإجمالي** بالتعريف الواحد (J16) | B + F | MVP Now | `original_subtotal − subtotal` + `delivery_charge` عند المجانية |
+| 02-6 | الفاتورة والإجمالي، وتحته ملاحظة ثانوية "الإجمالي شامل ضريبة القيمة المضافة" **بلا مبلغ الضريبة** (J17). **الإجمالي = المجموع + التوصيل + الإكرامية فقط** | B + F | MVP Now | `subtotal` و`original_subtotal` و`delivery_fee` و`total` |
+| 02-7 | "وفّرت في هذا الطلب" **تحت الإجمالي** بالتعريف الواحد (J16). السطر الفرعي "خصومات المنتجات"، ويُضاف "+ التوصيل المجاني" فقط حين يكون مجانياً | B + F | MVP Now | `original_subtotal − subtotal` + `delivery_charge` عند المجانية |
 | 02-8 | المبلغ داخل الزر، ويتعطّل أثناء إعادة الحساب (07-1) | F | MVP Now | `total` |
 
 ### 03 خيارات الدفع
@@ -149,11 +150,11 @@ NODE_PATH=$(npm root -g) node design/outputs/checkout-journey/render.cjs
 | 04-2 | بطاقة "إضافة ملاحظة للطلب" من v65 مفتوحة | F | MVP Now | `order_note` |
 | 04-3 | زرا "اتركه عند الباب" و"لا تطرق الباب" داخل بطاقة v65 فوق الحقل. الحقل هو "الملاحظة". "اتركه عند الباب" معطّل مع الدفع عند الاستلام | F + B | MVP Now | B6: `delivery_instructions[]` |
 | 04-4 | "إذا كان المنتج غير متوفر"، ويُخفى مع الدفع عند الاستلام (J13) | F + محتوى | **بعد A7 — قرار فضل** | A7 |
-| 04-5 | الإكرامية 1 / 3 / 5 / أخرى / بدون إكرامية، بلا اختيار مسبق | P + F | MVP Now | A3 |
+| 04-5 | الإكرامية 1 / 3 / 5 / أخرى / بدون إكرامية، بلا اختيار مسبق. السطر التوضيحي "وهي لشريك التوصيل" بدل "يصل كامل مبلغها" (J18) | P + F | MVP Now | A3 |
 | 04-6 | التوصيل مشطوباً و"مجاناً" | F | MVP Now | المنطقة |
 | 04-7 | سطر الإكرامية في الفاتورة | B + F | MVP Now | `tip_amount` (غير متحقق) |
-| 04-8 | الإجمالي شامل الضريبة، بلا تقريب | B | MVP Now | B2 + B3 |
-| 04-9 | "وفّرت في هذا الطلب 18.80" تحت الإجمالي، **ولا رقم توفير آخر في الصفحة** | B + F | MVP Now | 11.80 + 7.00 |
+| 04-8 | الإجمالي بلا تقريب، وتحته "الإجمالي شامل ضريبة القيمة المضافة" بلا مبلغ (J17) | B | MVP Now | B3: `total` |
+| 04-9 | "وفّرت في هذا الطلب 18.80" تحت الإجمالي، والسطر الفرعي "خصومات المنتجات + التوصيل المجاني". **ولا رقم توفير آخر في الصفحة** | B + F | MVP Now | 11.80 + 7.00 |
 | 04-10 | "الدفع باستخدام: مدى" (v65) | F | MVP Now | الطريقة المختارة |
 | 04-11 | "ادفع \| 103.10"، ومع الدفع عند الاستلام "إتمام الطلب \| 103.10" | F | MVP Now | `total` |
 
@@ -183,12 +184,12 @@ NODE_PATH=$(npm root -g) node design/outputs/checkout-journey/render.cjs
 
 | # | الحالة | المسؤول | التصنيف | مصدر البيانات |
 |---|---|---|---|---|
-| 07-1 | إعادة الحساب: الزر معطّل بلا مبلغ مع مؤشر، وشريط تحميل مكان الإجمالي، حتى يعيد الخادم `total` | F + B | MVP Now | حساب السلة |
-| 07-2 | "جارٍ تأكيد الدفع": بين نجاح تاب والـ Webhook، بلا رجوع | B + F | MVP Now | Tap Webhook |
-| 07-3 | دُفع ولم يُنشأ الطلب: تحذير كهرماني وزر "تواصل مع الدعم"، بلا وعد بموعد | B + تشغيل | الإجراء قرار فضل | مطابقة Charges والطلبات |
-| 07-4 | الدفع عند الاستلام مختاراً: "إتمام الطلب \| 103.10"، و"اتركه عند الباب" معطّل، وبطاقة الناقص مخفية، و"المبلغ عند الاستلام" في النجاح | F | MVP Now | `payment_method = cod` |
+| 07-1 | إعادة الحساب: الزر معطّل بلا مبلغ مع مؤشر، وشريط تحميل مكان الإجمالي، حتى يعيد الخادم `total`. ملاحظة الضريبة تبقى بلا مبلغ | F + B | MVP Now | حساب السلة |
+| 07-2 | "جارٍ تأكيد الدفع / نؤكد الدفع مع البنك.": بين نجاح تاب والـ Webhook، بلا رجوع. **بعد المهلة (X ثانية، يحددها محمد) ← 07-3**، ويستمر الخادم في المطابقة. **عند فتح التطبيق من جديد** بوجود Charge ناجح بلا طلب ← 07-3 | B + F | MVP Now | Tap Webhook، ومهلة الانتظار، وفحص عند الإقلاع |
+| 07-3 | دُفع ولم يُنشأ الطلب (من 07-2 بعد المهلة، أو عند فتح التطبيق): تحذير كهرماني وزر "تواصل مع الدعم"، بلا وعد بموعد. عبارة "نتواصل معك" مرتبطة بقرار الإجراء | B + تشغيل | الإجراء قرار فضل | مطابقة Charges والطلبات |
+| 07-4 | الدفع عند الاستلام مختاراً: "إتمام الطلب \| 103.10"، و"اتركه عند الباب" معطّل، وبطاقة الناقص مخفية. صندوق "المبلغ عند الاستلام" في النجاح موسوم Next كما في 06 | F | MVP Now (الصندوق Next) | `payment_method = cod` |
 | 07-5 | البطاقة المحفوظة: صف أول بآخر 4 أرقام | B + F | MVP Now | تاب `customer_id` |
-| 07-6 | الهبوط تحت الحد: 45.90 + 7.00 = 52.90، والضريبة 6.90 | F | MVP Now | المنطقة |
+| 07-6 | الهبوط تحت الحد: سلة 04 بعد حذف الحليب وتمارا وخفض الرز إلى 1. المجموع 37.95 (الأصلي 39.95 مشطوباً)، والمتبقي 12.05، والشريط 75.9%. التوصيل 7.00 بلا شطب، والإكرامية 3.00 باقية، فالإجمالي 47.95. "وفّرت" 2.00 (خصومات المنتجات فقط) | F | MVP Now | المنطقة |
 | 07-7 | العنوان خارج النطاق: رسالة حمراء، والزر "اختر عنواناً آخر" يفتح منتقي v65 | B + F | MVP Now | Delivery Zone (A1) |
 | 07-8 | أندرويد بلا Apple Pay | F | MVP Now | المنصة |
 | 07-9 | فشل الدفع | B + F | MVP Now | رد تاب |
@@ -242,23 +243,24 @@ NODE_PATH=$(npm root -g) node design/outputs/checkout-journey/render.cjs
 - إذا كان المنتج غير متوفر.
 - 1 / 3 / 5 / أخرى / بدون إكرامية.
 - مجاناً، وفّرت.
-- شامل ضريبة القيمة المضافة 15%.
+- الإجمالي شامل ضريبة القيمة المضافة (قرار فضل J17).
 - ادفع.
 - مدى، Apple Pay، بطاقة ائتمانية.
 
 **بحسم المنسّق:**
 - "لو تعذّر منتج نكمل طلبك ونتواصل معك بشأنه."
 - "وفّرت في هذا الطلب".
+- "الإكرامية اختيارية، وهي لشريك التوصيل تقديرًا لجهده." (J18، بدل نص v65 "ويصل كامل مبلغها إلى شريك التوصيل").
 
 **صياغة المصمم، وتحتاج اعتماد فضل:**
 - أُضيف إلى السلة: {المنتج} (Next).
-- خصومات المنتجات + توفير التوصيل (لا يُطرح من الإجمالي).
+- خصومات المنتجات / خصومات المنتجات + التوصيل المجاني.
 - موعد الوصول (Next).
 - إكرامية شريك التوصيل.
 - بطاقة الصراف البنكية، على أجهزة آيفون، فيزا أو ماستركارد، بطاقتك المحفوظة.
-- الدفع ببطاقة مدى، المبلغ / شامل ضريبة القيمة المضافة، احفظ البطاقة للطلبات القادمة.
+- الدفع ببطاقة مدى، المبلغ / الإجمالي شامل ضريبة القيمة المضافة، احفظ البطاقة للطلبات القادمة.
 - تتم معالجة الدفع عبر تاب، وقد يطلب بنكك رمز تحقق.
-- جارٍ تأكيد الدفع، لا تغلق التطبيق حتى يكتمل التأكيد.
+- جارٍ تأكيد الدفع، نؤكد الدفع مع البنك.
 - استلمنا الدفع ولم يكتمل إنشاء الطلب، لا تُعد الدفع. نراجع طلبك ونتواصل معك، تواصل مع الدعم.
 - لم يكتمل الدفع، جرّب مرة ثانية أو اختر طريقة أخرى، اختر طريقة أخرى.
 - هذا العنوان خارج منطقة التوصيل الحالية، اختر عنواناً آخر.
@@ -271,6 +273,8 @@ NODE_PATH=$(npm root -g) node design/outputs/checkout-journey/render.cjs
 - "آمن".
 - "لم يُخصم المبلغ".
 - "نسترد".
+- مبلغ الضريبة في ملخص الطلب (J17).
+- "يصل كامل مبلغها" (J18).
 
 ## 7. الحالات
 
@@ -293,7 +297,8 @@ NODE_PATH=$(npm root -g) node design/outputs/checkout-journey/render.cjs
 
 - **المرجع:** الكود الحالي يحكم الأبعاد. الخط Readex Pro للمحاكاة فقط.
 - **الكبسولة:** لا تغيير فيها إلا اللون.
-- **الأرقام:** لا تحسب الإجمالي أو الضريبة أو "وفّرت" في التطبيق. اعرض ما يعيده الخادم، وعطّل الزر أثناء إعادة الحساب (07-1).
+- **الضريبة:** لا يُعرض مبلغها في التطبيق. سطر ثانوي واحد تحت الإجمالي: "الإجمالي شامل ضريبة القيمة المضافة" (J17).
+- **الأرقام:** لا تحسب الإجمالي أو "وفّرت" في التطبيق. اعرض ما يعيده الخادم، وعطّل الزر أثناء إعادة الحساب (07-1).
 - **"وفّرت":** سطر واحد تحت الإجمالي. لا يوضع بين البنود، ولا يتكرر في بطاقة العناصر.
 - **ثابت لون التقدّم:** لا تستخدم `freeDeliveryProgress` حتى يُحسم C11.
 
@@ -305,7 +310,8 @@ NODE_PATH=$(npm root -g) node design/outputs/checkout-journey/render.cjs
   - حفظ البطاقة.
   - Webhook قبل إنشاء الطلب أو تأكيده (07-2).
   - مطابقة بين Charges تاب والطلبات (07-3).
-- **B2:** حقول الفاتورة و`vat_amount`، وفاتورة ضريبية برقم المتجر ورمز QR.
+- **B2:** حقول ملخص الطلب (`subtotal` و`original_subtotal` و`delivery_fee` و`tip` و`total`). **مبلغ الضريبة والرقم الضريبي للبائع ورمز QR تظهر في الفاتورة فقط** (قرار فضل J17)، والفاتورة يصدرها المتجر الشريك برقمه الضريبي.
+- **مهلة 07-2:** حدّد X ثانية، وأعد حالة "Charge ناجح بلا طلب" لفحص التطبيق عند الإقلاع.
 - **B3:** إلغاء التقريب.
 - **B6:** حقل `delivery_instructions`، ويظهر في تطبيق المندوب.
 - **فحص العنوان:** مقابل المنطقة قبل الدفع (07-7).
@@ -318,7 +324,8 @@ NODE_PATH=$(npm root -g) node design/outputs/checkout-journey/render.cjs
 2. **الإكرامية (فضل والمحاسب):**
    - نص v65 يقول "ويصل كامل مبلغها إلى شريك التوصيل". بعد قرار التحصيل في حساب إيفيكسا، هل تصل الإكرامية كاملة للمندوب فعلاً، دون عمولة تاب أو خصم؟ وبأي مسار ومتى؟
    - إن لم يكن ذلك مضموناً تشغيلياً، يُعدَّل النص.
-   - هل الإكرامية داخل وعاء الضريبة؟ (J12)
+   - النص مؤقتاً "وهي لشريك التوصيل" بلا وعد (J18).
+   - هل الإكرامية داخل وعاء الضريبة؟ (J12، ويؤثر على الفاتورة فقط)
 3. **فشل الدفع:** هل يحجز تاب المبلغ مؤقتاً بعد 3-D Secure؟ لا يُضاف أي نص عن الخصم قبل الجواب كتابياً.
 4. **دُفع ولم يُنشأ الطلب:** استرداد تلقائي أم إنشاء يدوي؟ ومن يتابع؟ (07-3)
 5. **حد التوصيل المجاني:** هل الشرط "≥ 50" أم "> 50"؟ الإعداد يقول "فوق 50". وهل يبقى الحد في الإطلاق (A2، J11)؟
@@ -347,4 +354,4 @@ NODE_PATH=$(npm root -g) node design/outputs/checkout-journey/render.cjs
   - رسوم التوصيل 7، ومجاني فوق 50.
   - الإكرامية: الحد الأدنى 5، والخيارات 10 / 20 / 50. النموذج يفترض A3: 1 / 3 / 5.
 - رمز الريال رسم تقريبي (C19).
-- التعارضات J1 إلى J16، والحسم المؤقت لها، في `design/outputs/CONFLICTS.md`.
+- التعارضات J1 إلى J18، والحسم المؤقت لها، والقرار المحسوم J17، في `design/outputs/CONFLICTS.md`.

diff --git a/design/outputs/CONFLICTS.md b/design/outputs/CONFLICTS.md
@@ -110,3 +110,10 @@
 | J14 | صف "موعد الوصول" موسوم "Next — قرار فضل"، بلا جملة صفحة التتبع وبلا رقم |
 | J15 | "+" مرجاني برمز حبري في كل الشاشات (Policy v1) |
 | J16 | تعريف واحد = (الأصلي − المخفّض للمنتجات) + توفير التوصيل. يظهر تحت سطر الإجمالي فقط في 02 و04، وموسوماً Next في 06. حُذف سطر "وفّرت" من بطاقة العناصر وأُلغي رقم 11.80 المنفرد |
+
+### قرار محسوم: عرض الضريبة (فضل، 2026-10-22)
+
+| # | القرار | الأثر |
+|---|---|---|
+| J17 | **محسوم.** نتبع ممارسة السوق كما في كيتا ونون: لا يُعرض مبلغ الضريبة في ملخص الطلب. تحت الإجمالي ملاحظة ثانوية "الإجمالي شامل ضريبة القيمة المضافة". **مبلغ الضريبة والرقم الضريبي للبائع ورمز QR في الفاتورة فقط** | حُذف سطر المبلغ (13.06 و6.12 و6.90) من 02 و04 و05 و07. `vat_amount` حقل للفاتورة (B2، محمد)، لا للتطبيق. يُلغي هذا ما في J12 من أثر على العرض، ويبقى سؤال وعاء الإكرامية للفاتورة |
+| J18 | **حسم مؤقت (المنسّق).** نص الإكرامية في v65 "ويصل كامل مبلغها إلى شريك التوصيل" وعد تشغيلي بعد قرار التحصيل في حساب إيفيكسا | صار "الإكرامية اختيارية، وهي لشريك التوصيل تقديرًا لجهده." حتى يقرر فضل. **نعم**، يحتاج قراره |
